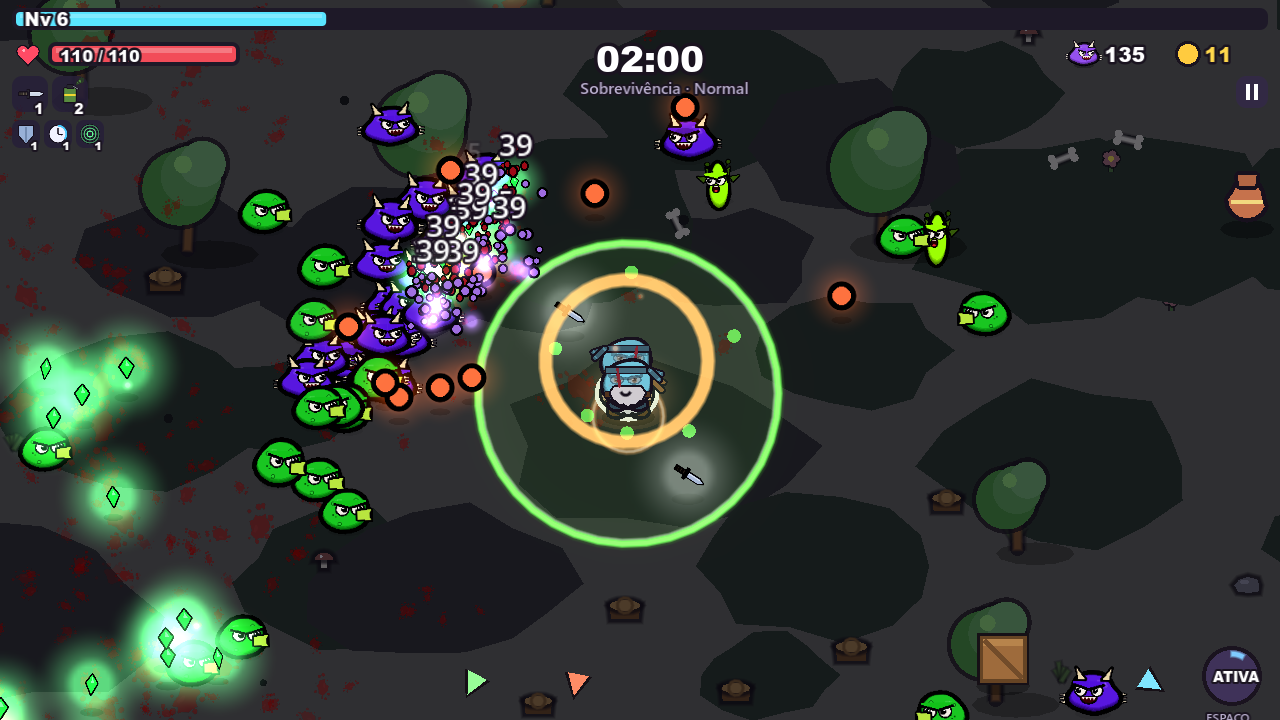
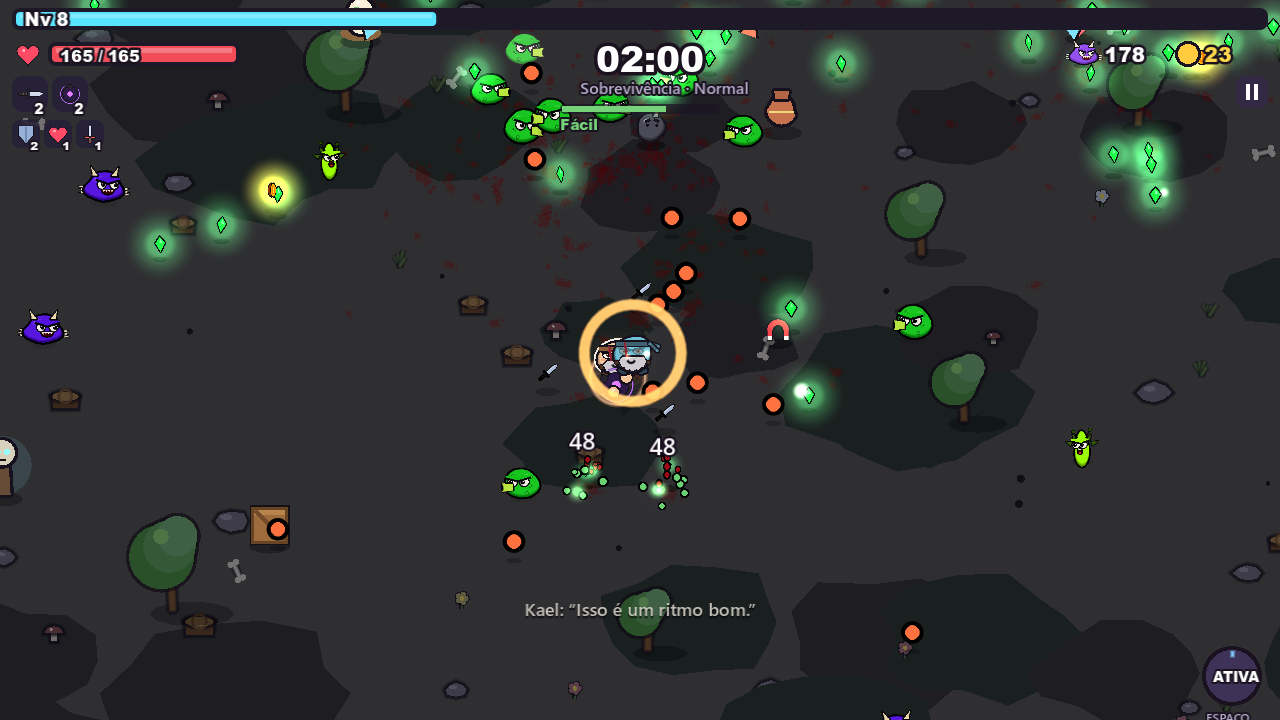
v0.5.1: câmera aberta, impacto, som ambiente, medidor de dificuldade, combos e falas dos heróis

diff --git a/CHANGELOG.md b/CHANGELOG.md
@@ -1,5 +1,16 @@
 # Novidades
 
+## v0.5.1 — 7 de outubro de 2026
+
+- **Câmera mais aberta** e ritmo mais acelerado: você vê a horda chegando.
+- **Impacto ao acertar**: cada golpe tem peso.
+- **Visual mais limpo**: contornos finos e sombras no lugar de brilhos exagerados.
+- **Som ambiente** diferente em cada bioma.
+- **Medidor de dificuldade** no topo da tela, que sobe com o tempo.
+- **Combo de abates**.
+- **Resumo da partida** ao final.
+- **Os heróis falam** durante a partida.
+
 ## v0.5.0 — 7 de outubro de 2026
 
 - **Visual refeito**: cenário discreto e heróis, monstros, tiros e gemas em destaque. O herói ganhou contorno claro e aura de poder; os inimigos, contorno grosso.
